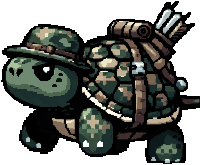
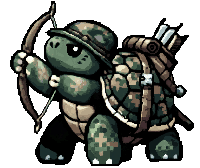
art: 宝箱「财宝风暴」开盖喷金币、猎人「狩猎弹幕」站起朝天拉弓(关键姿势法); 修抠底把透明底图的整圈描边抠掉(海盗阵亡姿势返工)(分支 art/turtle-seq)
- fetch_keyframe.cut: 边缘最常见的不透明色占边长 ≥ 20% 才当底色抠(image_to_pixelart 的灰底);
  Pro Flash 透明底图边缘只有几个描边点 ⇒ 原来按黑色把整圈描边 / 深色身体抠掉(猎人姿势腿断、海盗阵亡少 741 像素描边)
  复核: 14 张定稿按新判据重抠, 13 张逐字节相同(钻石定稿后来换过 Pro Flash 去阴影版, 本来就不同); 6 张关键姿势逐字节相同(海盗 / 水晶已先换回原图)
- 额度 ≈ 20 次; 本期剩约 380
- verify_spine_actions 704 / verify_sprite_sheets 全过

diff --git a/tools/assetgen/fetch_keyframe.py b/tools/assetgen/fetch_keyframe.py
@@ -27,6 +27,14 @@ def cut(a: np.ndarray) -> tuple:
 	border += [tuple(a[y, x, :3]) for x in range(w) for y in (0, h - 1) if a[y, x, 3] > 0]
 	if not border:
 		return a, 0
+	## 只有「真有一圈底色」才抠: 边缘最常见的不透明色要占边长 ≥ 20%(image_to_pixelart 的灰底: 四角透明、其余两百多格同一灰)。
+	##   Pro Flash 改出来的透明底图边缘只有几个描边点 ⇒ 不抠; 拿它当背景色会把整圈深色描边 / 深色身体抠掉
+	##   (11-05 晚猎人「朝天拉弓」: 边缘只有 6 个黑点 ⇒ 按黑色抠掉, 腿断了; 海盗阵亡姿势整圈描边被抠, 返工)
+	if Counter(border).most_common(1)[0][1] < 0.2 * 2 * (h + w):
+		out = a.copy()
+		out[..., 3] = np.where(out[..., 3] >= 128, 255, 0)
+		out[out[..., 3] == 0] = 0
+		return out, 0
 	bg = np.array(Counter(border).most_common(1)[0][0], dtype=int)
 
 	def isbg(y, x):
